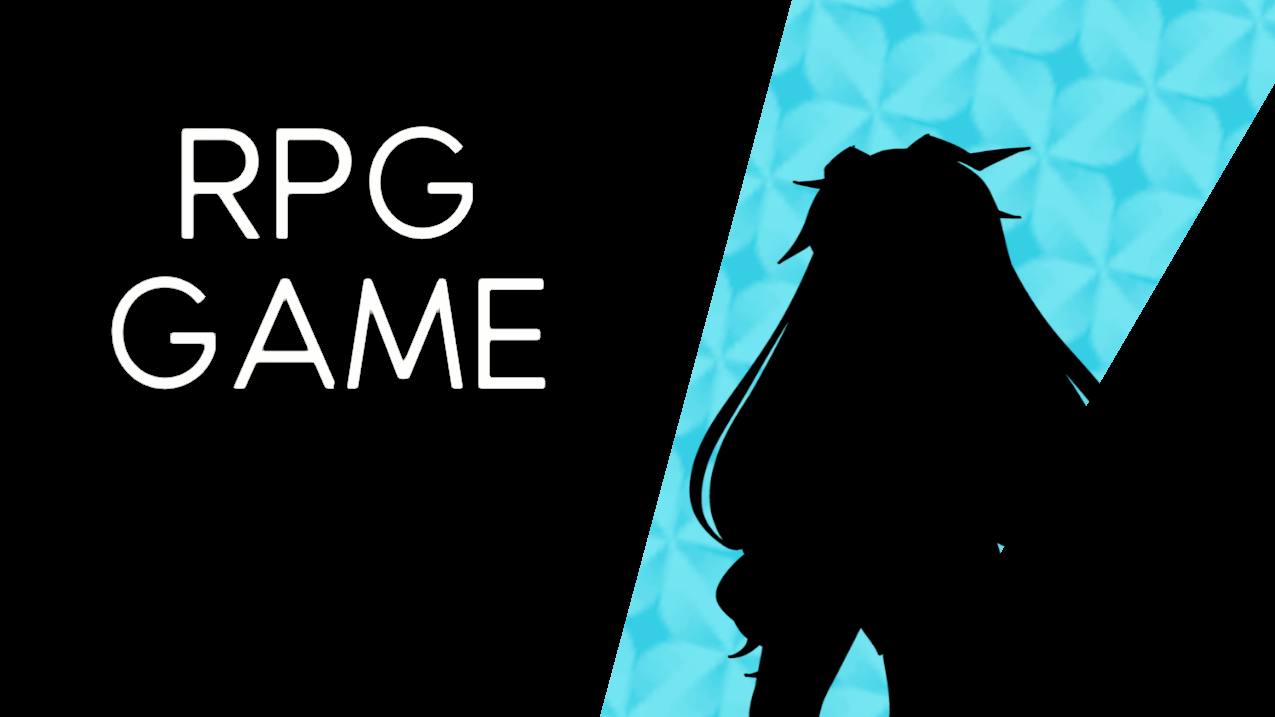
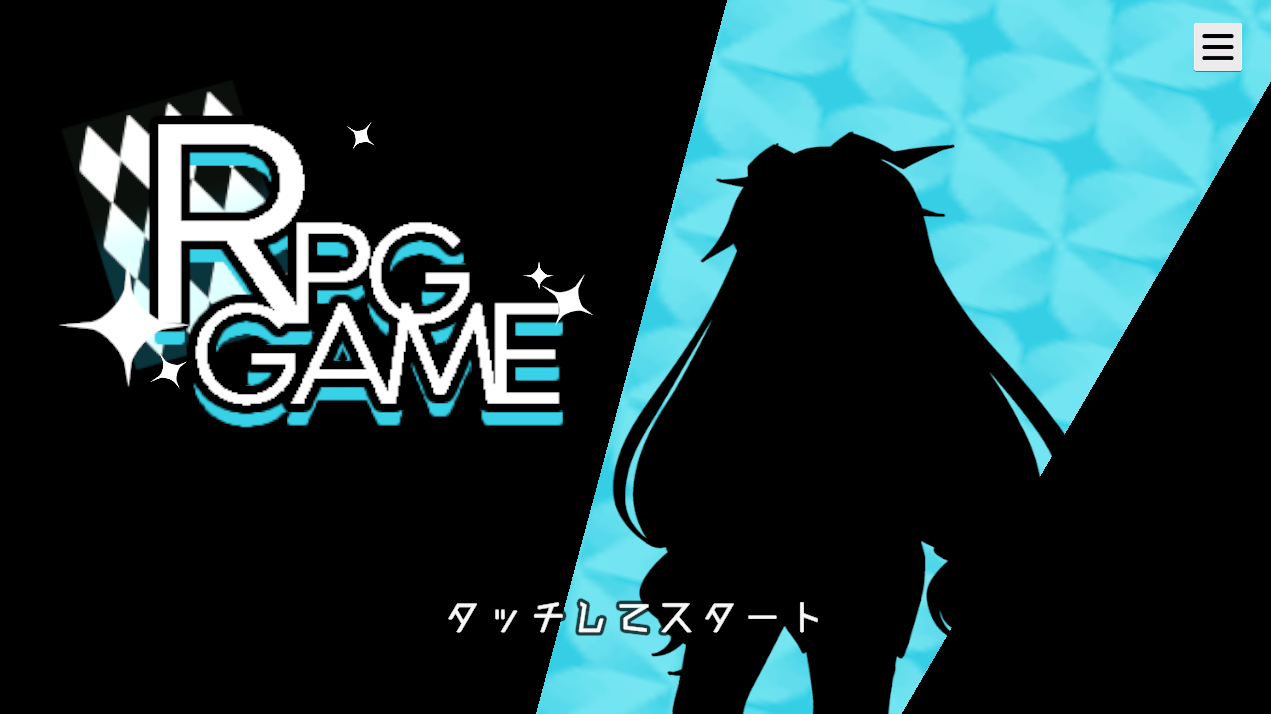
ゲームの更新に伴いポートフォリオを修正。

Changed region(s): [[0.0614, 0.0, 1.0, 1.0], [0.7671, 0.1232, 0.7978, 0.1541]]

diff --git a/README.md b/README.md
@@ -1,5 +1,5 @@
 # RPGGAME
-<img src="Portfolio/png/0_Title.png" width="60%"><br>
+<img src="Portfolio/png/0_title.png" width="60%"><br>
 
 ### 目次
 ---
@@ -14,7 +14,7 @@
 ### 1. 自己紹介
 ---
 <dd>
-河原電子ビジネス専門学校　ゲームクリエイター科2年<br>
+河原電子ビジネス専門学校　ゲームクリエイター科3年<br>
 野村 華生(のむら かなり)<br><br>
 ゲーム、絵を描くこと、写真を撮ることが趣味です。
 </dd>
@@ -39,7 +39,7 @@
     </dd><br>
     <dd>
     対応ハード<br>
-    Windows11、Android<br>
+    Windows11<br>
     </dd><br>
 </dd>
 
@@ -48,7 +48,7 @@
 <dd>
     <dd>
     制作期間<br>
-    2023年11月～2024年3月<br>
+    2023年11月～2024年5月<br>
     </dd><br>
     <dd>
     制作人数<br>
@@ -92,10 +92,10 @@
 <dd>
 ゲームオーバー、ゲームクリアなどの判定を行うほか、演出部分で一定時間待機する等の処理に使用しています。<br>
 ※黄色のラインの部分がUnitaskのコード<br>
-<img src="Portfolio/png/4_Unitask.png" width="60%"><br>
+<img src="Portfolio/png/4_Unitask.png" width="90%"><br>
 ▲ 演出の終了処理
 
-<img src="Portfolio/png/4_Unitask2.png" width="60%"><br>
+<img src="Portfolio/png/4_Unitask2.png" width="90%"><br>
 ▲ ゲームの終了処理
 
 </dd>
@@ -114,16 +114,46 @@
 <dd>
 
 #### 6.2. アニメーション
-<img src="Portfolio/gif/5_Animation.gif" width="60%"><br>
+<img src="Portfolio/gif/6_Animation.gif" width="60%"><br>
 UIにこだわりたいと考え、ボタンを押したときなどのアニメーションを個別に追加しています。<br>
 同一のAnimatorを使用しており、同じスクリプトをアタッチして設定するだけで制御できるようにしています。
 
-<img src="Portfolio/gif/5_Animation2.gif" width="60%"><br>
+作成する際には「何度も押したくなるかどうか？」「自分がアニメーションを見て違和感を感じないかどうか？」を重視して作成しています。
+
+<img src="Portfolio/gif/6_Animation2.gif" width="60%"><br>
 また、システムのセーブが行われた際の専用のアニメーションを追加しました。<br>
 アニメーションイベントを使用し、回転が行われた瞬間に画像を差し替えて表裏があるように見せています。
 
 スートが描かれた画像は乱数を設定して決定しており、毎回ランダムに切り替わるようにしています。
 
+#### 6.2.1 タイムラインを使用したシームレスな遷移
+<img src="Portfolio/gif/6_Timeline.gif" width="60%"><br>
+
+Unityの機能であるTimelineについての理解を深めたいと思い、<br>アウトゲームの背景の遷移の部分でTimelineを活用して、シームレスな遷移を実装しました。
+
+<img src="Portfolio/png/6_timeline.png" width="80%">
+
+各シーンは、背景のデータを持ったシーンと、UIのみを持ったデータを持ったシーンを合成することで作成しています。
+
+<img src="Portfolio/png/6_timeline2.png" width="80%">
+
+遷移アニメーション時に背景のデータを持ったシーンはTimeline、<br>UIのみを持ったデータを持ったシーンはAnimationを再生することで実現しています。
+
+また、SceneManager.LoadSceneAsyncを活用してシーンを合成するため、<br>アニメーションイベントを使用してシーンの合成、削除を動的に行っています。
+
+#### 6.3 カットイン
+<img src="Portfolio/gif/6_CutIn.gif" width="60%"><br>
+「エネミーの弱点を突いた」際の効果として、カットインを実装しています。
+
+<img src="Portfolio/png/6_CutIn.png" width="90%">
+
+▲ 演出を開始する関数<br>
+※黄色のラインの部分でカットインのアニメーションを再生。
+
+カットインのアニメーションを用意し、
+弱点を突いているならスクリプト内でカメラ制御、<br>エフェクトの生成と共にアニメーションを実行しています。
+
+CutInStart()関数内ではアニメーションの再生に加えて<br>カットイン時に表示するキャラクターの画像、背景の色などの設定を行っています。
 </dd>
 
 ### 7.使用素材
